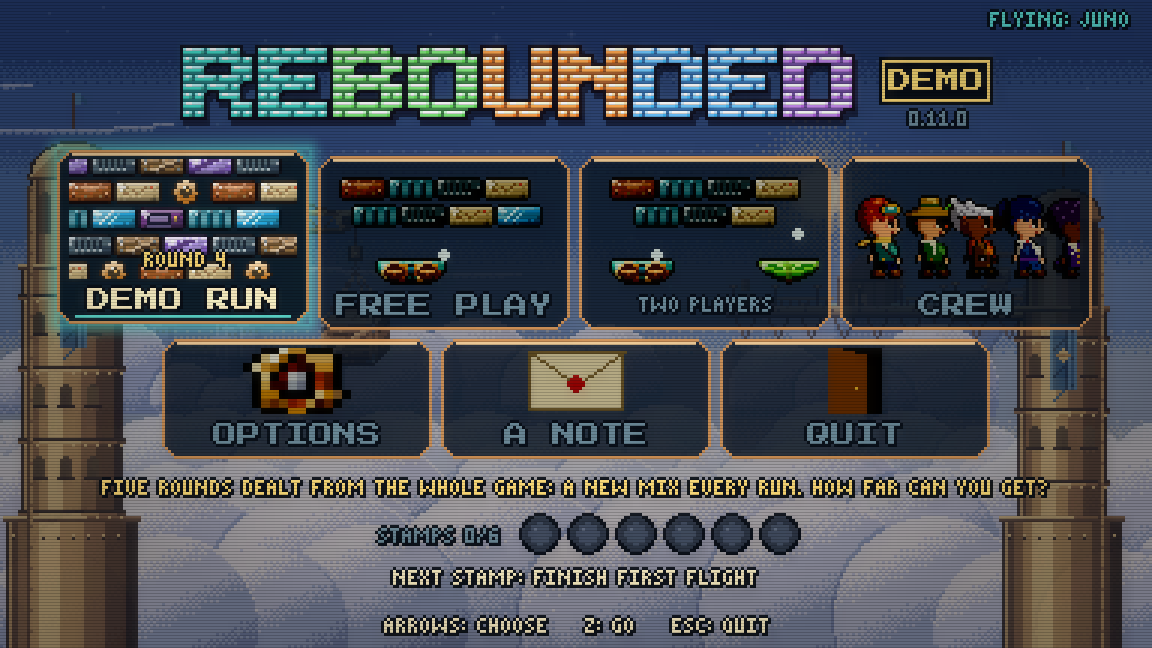
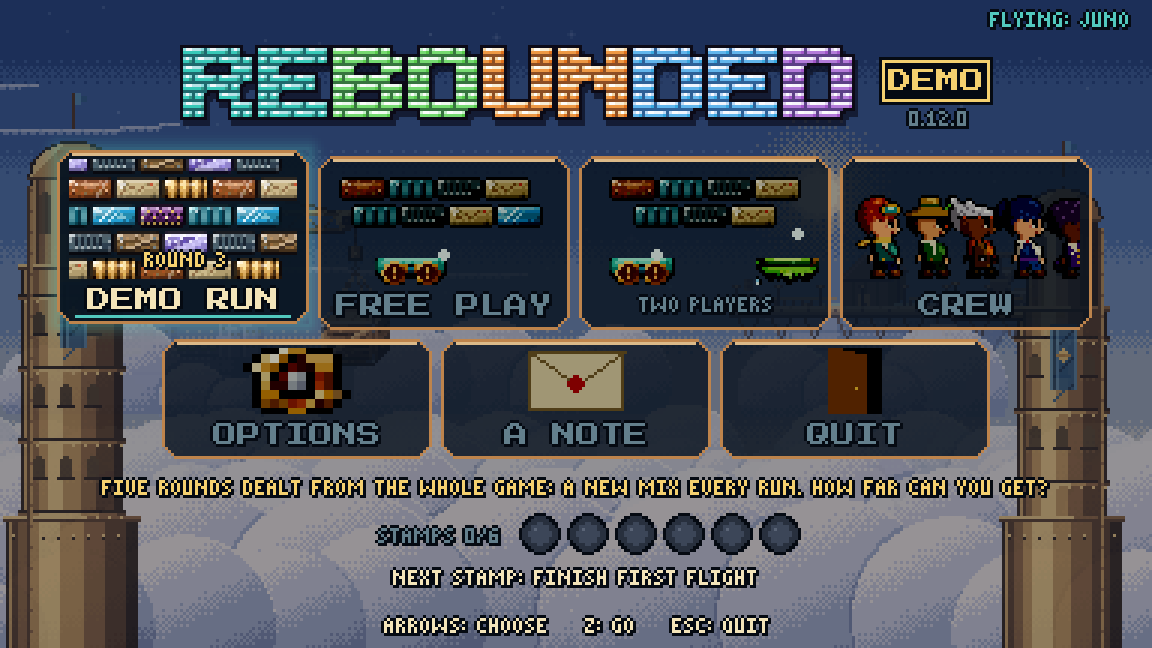
Demo 0.12.0: living water, waterfalls, two-screen stages, living wardens, a new trailer

diff --git a/README.md b/README.md
@@ -1,23 +1,23 @@
 # REBOUNDED: Demo
 
-An original arcade brick breaker with real physics, machinery, two-screen stages and a crew of heroes, each with an
-ability of their own.
+An original arcade brick breaker with living water, two-screen stages, wardens that fight back and a crew of heroes,
+each with an ability of their own.
 
-**The full game is coming soon. [Watch the official trailer.](https://www.youtube.com/watch?v=e89CBXxxUZc)**
+**The full game is coming soon. [Watch the official trailer.](https://www.youtube.com/watch?v=m6izhJHy3II)**
 
 ![The demo's menu](menu.png)
 
 ## Download and play (Windows)
 
 **[Download the demo installer](https://github.com/Tracedicky/AVENGIS-Rebounded-Demo/releases/latest)**: open the
-latest release and click `AVENGIS-Rebounded-Demo-0.11.0-Setup.exe`, then run it. Already have the old demo? This
+latest release and click `AVENGIS-Rebounded-Demo-0.12.0-Setup.exe`, then run it. Already have the old demo? This
 upgrades it in place, saves and all.
 
 Windows may show a blue "Windows protected your PC" box, because the installer isn't code-signed. Click
 **More info**, then **Run anyway**. It installs just for you (no administrator needed), with Start menu shortcuts and
 an optional desktop one.
 
-![A demo run, round one: Glassroot Gardens](play.png)
+![A demo run, round one: Greenhouse Row, Glassroot Gardens](play.png)
 
 ## What's in it
 
@@ -30,7 +30,15 @@ an optional desktop one.
 - **The crew:** all five heroes, each with an ability of their own.
 - **Six stamps** to collect along the way.
 
-## What's new in 0.11.0
+## What's new in 0.12.0
+
+- **Living water in every stage:** the left valve fills it, the right one drains it, and your deck rides it up.
+- **Waterfalls:** fine falls pour from taps in every world, and your ball swishes through them.
+- **Two screens tall:** every stage now has a second screen, and each world ends in an escape from the rising flood.
+- **Living wardens:** the bosses are living things now, each with three shapes.
+- **Every brick redrawn**, First Flight and the early stages opened up, and droplets that look like droplets.
+
+## What was new in 0.11.0
 
 - **A whole new demo**, built around the demo run: a different game every time you play.
 - **All five heroes** to fly: Rook and Mira have joined Juno, Rowan and Nell.
